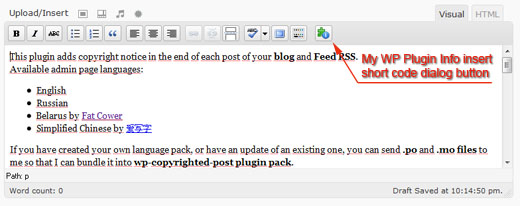
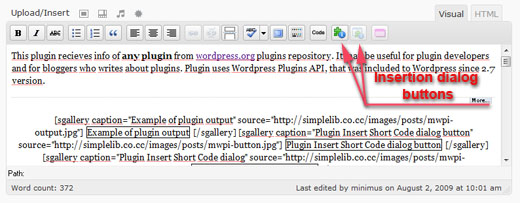
new features added
git-svn-id: https://plugins.svn.wordpress.org/my-wordpress-plugin-info/trunk@142486 b8457f37-d9ea-0310-8a92-e5e31aec5664

diff --git a/tinymce/plugins/mwpi/editor_plugin.js b/tinymce/plugins/mwpi/editor_plugin.js
@@ -8,8 +8,19 @@
 			ed.addCommand('mwpi', function() {
 				ed.windowManager.open({
 					file : url + '/dialog.php',
-					width : 310,
-					height : 130,
+					width : 310 + parseInt(ed.getLang('mwpi.delta_width', 0)),
+					height : 115 + parseInt(ed.getLang('mwpi.delta_height', 0)),
+					inline : 1
+				}, {
+					plugin_url : url 
+				});
+			});
+			
+			ed.addCommand('mwpi_block', function() {
+				ed.windowManager.open({
+					file : url + '/block-dialog.php',
+					width : 310 + parseInt(ed.getLang('mwpi.delta_width', 0)),
+					height : 90 + parseInt(ed.getLang('mwpi.delta_height', 0)),
 					inline : 1
 				}, {
 					plugin_url : url 
@@ -21,21 +32,26 @@
 				cmd : 'mwpi',
 				image : url + '/img/mwpi.png'
 			});
+			
+			ed.addButton('mwpi_block', {
+				title : 'mwpi.insert_mwpi_block',
+				cmd : 'mwpi_block',
+				image : url + '/img/mwpi-block.png'
+			});
 
-			ed.onNodeChange.add(function(ed, cm, n) {
-				cm.setActive('mwpi', n.nodeName == 'IMG');
+			ed.onNodeChange.add(function(ed, cm, n, co) {
+				cm.setDisabled('mwpi', !co);
+				cm.setDisabled('mwpi_block', co);
 			});
 		},
-		createControl : function(n, cm) {
-			return null;
-		},
+		
 		getInfo : function() {
 			return {
 					longname  : 'My WP Plugin Info',
 					author 	  : 'minimus',
 					authorurl : 'http://blogovod.co.cc',
 					infourl   : 'http://blogovod.co.cc',
-					version   : "0.3.6"
+					version   : "1.0.11"
 			};
 		}
 	});

diff --git a/tinymce/plugins/mwpi/mwpi-block-dialog.js b/tinymce/plugins/mwpi/mwpi-block-dialog.js
@@ -7,12 +7,12 @@ function insertMWPICode() {
 	var mwpiCode;
 	var mwpiSlugObj = document.getElementById('mwpi_slug');
 	var mwpiSlug = mwpiSlugObj.value;
-	var mwpiDataObj = document.getElementById('mwpi_data');
-	var mwpiData = mwpiDataObj.value;
 	var mwpiModeObj = document.getElementById('mwpi_mode');
 	var mwpiMode = mwpiModeObj.value;
+	var contentObj = tinyMCE.getInstanceById('content');
+	var mwpiBody = contentObj.selection.getContent();
 	
-	mwpiCode = ' [mwpi slug ="' + mwpiSlug + '" data="' + mwpiData + '" mode="' + mwpiMode + '"]';
+	mwpiCode = ' [mwpi_block slug ="' + mwpiSlug + '" mode="' + mwpiMode + '"]' + mwpiBody + '[/mwpi_block]]';
 	
 	window.tinyMCE.execInstanceCommand('content', 'mceInsertContent', false, mwpiCode);
 	tinyMCEPopup.editor.execCommand('mceRepaint');

diff --git a/tinymce/plugins/mwpi/langs/ru.js b/tinymce/plugins/mwpi/langs/ru.js
@@ -1,3 +1,4 @@
 tinyMCE.addI18n("ru.mwpi", {
-	insert_mwpi : 'Вставить информацию о плагине'
+	insert_mwpi : 'Вставить информацию о плагине',
+	insert_mwpi_block : 'Вставить блок информации о плагине'
 });

diff --git a/tinymce/plugins/mwpi/langs/en.js b/tinymce/plugins/mwpi/langs/en.js
@@ -1,3 +1,4 @@
 tinyMCE.addI18n("en.mwpi", {
-	insert_mwpi : 'Insert Plugin Info'
+	insert_mwpi : 'Insert Plugin Info',
+	insert_mwpi_block : 'Insert Block of Plugin Info'
 });

diff --git a/my-wordpress-plugin-info.php b/my-wordpress-plugin-info.php
@@ -3,7 +3,7 @@
 Plugin Name: My WP Plugin Info
 Plugin URI: http://simplelib.co.cc/?p=195
 Description: Recieves info of any plugin from wordpress.org plugins repository. Visit <a href="http://simplelib.co.cc/">SimpleLib blog</a> for more details.
-Version: 0.3.8
+Version: 1.0.11
 Author: minimus
 Author URI: http://blogovod.co.cc
 */
@@ -38,6 +38,7 @@ if ( !class_exists( 'MyWpPluginInfo' ) ) {
 			add_filter('tiny_mce_version', array(&$this, 'tinyMCEVersion') );
 			add_action('init', array(&$this, 'addButtons'));
 			add_shortcode('mwpi', array(&$this, 'doShortCode'));
+			add_shortcode('mwpi_block', array(&$this, 'doShortCodeBlock'));
 		}
 		
 		function getPluginInfo ( $slug = null ) {
@@ -181,6 +182,26 @@ if ( !class_exists( 'MyWpPluginInfo' ) ) {
 			return $content;
 		}
 		
+		function getPluginInfoBlock( $slug = null, $content = null, $mode = null ) {
+			if ( empty( $slug ) ) return false;
+			
+			$plugin = $this->getPluginInfo( $slug );
+			
+			if ( empty( $plugin ) ) return false;
+			
+			$prefix = "<strong><a href='http://wordpress.org/extend/plugins/{$slug}/'>{$plugin['name']}</a></strong> ";
+			switch ( $mode ) {
+				case 'info':
+				  $suffix = __('Author', 'my-wordpress-plugin-info').': '.$plugin['author'].', '.__('version', 'my-wordpress-plugin-info').': '.$plugin['version'].', '.__('updated', 'my-wordpress-plugin-info').': '.date(get_option('date_format'), strtotime($plugin['last_updated'])).', <br/>'.__('Requires WP version', 'my-wordpress-plugin-info').': '.$plugin['requires'].' '.__('or higher', 'my-wordpress-plugin-info').', '.__('tested up to', 'my-wordpress-plugin-info').': '.$plugin['tested'].'. <br/>'.$this->buildRatingRaw($plugin['rating']).' ('.sprintf( __ngettext( "%d vote", "%d votes", $plugin[ 'num_ratings' ], "my-wordpress-plugin-info" ), $plugin[ 'num_ratings' ] ).')';
+				  break;
+		    case 'download':
+		      $suffix = __('Author', 'my-wordpress-plugin-info').': '.$plugin['author'].', '.__('version', 'my-wordpress-plugin-info').': '.$plugin['version'].', '.__('updated', 'my-wordpress-plugin-info').': '.date(get_option('date_format'), strtotime($plugin['last_updated'])).', <br/>'.__('Requires WP version', 'my-wordpress-plugin-info').': '.$plugin['requires'].' '.__('or higher', 'my-wordpress-plugin-info').', '.__('tested up to', 'my-wordpress-plugin-info').': '.$plugin['tested'].'.<br/>'.'<a href="'.$plugin['download_link'].'">'.__('Download', 'my-wordpress-plugin-info').'</a> ('.sprintf( __ngettext( "%s hit", "%s hits", $plugin['downloaded'], "my-wordpress-plugin-info" ), number_format($plugin['downloaded'], 0, ',', ' ')).') '.$this->buildRatingRaw($plugin['rating']).' ('.sprintf( __ngettext( "%d vote", "%d votes", $plugin[ 'num_ratings' ], "my-wordpress-plugin-info" ), $plugin[ 'num_ratings' ] ).')';
+		      break;
+			}
+			$content = '<p>'.$prefix.'<br/>'.$content.'</p><p>'.$suffix.'</p>';
+			return $content;
+		}
+		
 		function doShortCode( $atts, $content = null ) {
 			extract( shortcode_atts( array(
 				'slug' => '',
@@ -206,6 +227,19 @@ if ( !class_exists( 'MyWpPluginInfo' ) ) {
 			
 		}
 		
+		function doShortCodeBlock( $atts, $content = null ) {
+			extract( shortcode_atts( array(
+				'slug' => '',
+				'mode' => 'info'), 
+				$atts ) );
+				
+			$plugin = array();
+			if ( $slug !== '' ) {
+				return $this->getPluginInfoBlock( $slug, do_shortcode( $content ), $mode );
+			}
+			else return __('Plugin Slug not Defined!', 'my-wordpress-plugin-info');
+		}
+		
 		function addButtons() {
 			// Don't bother doing this stuff if the current user lacks permissions
       if ( ! current_user_can('edit_posts') && ! current_user_can('edit_pages') )
@@ -219,11 +253,11 @@ if ( !class_exists( 'MyWpPluginInfo' ) ) {
 		}
 		
 		function registerButton( $buttons ) {
-			array_push($buttons, "separator", "mwpi");
+			array_push($buttons, "separator", "mwpi", "mwpi_block");
       return $buttons;
 		}
 		
-		function addTinyMCEPlugin() {
+		function addTinyMCEPlugin( $plugin_array ) {
 			$plugin_array['mwpi'] = plugins_url('my-wordpress-plugin-info/tinymce/plugins/mwpi/editor_plugin.js');
       return $plugin_array;
 		}

diff --git a/tinymce/plugins/mwpi/block-dialog.php b/tinymce/plugins/mwpi/block-dialog.php
@@ -1,0 +1,53 @@
+<?php
+
+/**
+ * @author minimus
+ * @copyright 2009
+ */
+
+$wpconfig = realpath("../../../../../../wp-config.php");
+if (!file_exists($wpconfig))  {
+	echo "Could not found wp-config.php. Error in path :\n\n".$wpconfig ;	
+	die;	
+}
+require_once($wpconfig);
+require_once(ABSPATH.'/wp-admin/admin.php');
+
+?>
+
+<html xmlns="http://www.w3.org/1999/xhtml">
+<head>
+	<title>My WP Plugin Info</title>
+<meta http-equiv="Content-Type" content="<?php bloginfo('html_type'); ?>; charset=<?php echo get_option('blog_charset'); ?>" />
+	<script language="javascript" type="text/javascript" src="<?php echo get_option('siteurl') ?>/wp-includes/js/tinymce/tiny_mce_popup.js"></script>
+	<script language="javascript" type="text/javascript" src="<?php echo get_option('siteurl') ?>/wp-includes/js/tinymce/utils/form_utils.js"></script>
+	<script language="javascript" type="text/javascript" src="<?php echo get_option('siteurl') ?>/wp-content/plugins/my-wordpress-plugin-info/tinymce/plugins/mwpi/mwpi-block-dialog.js"></script>
+	<base target="_self" />
+</head>
+
+<body id="link" onload="tinyMCEPopup.executeOnLoad('init();');document.body.style.display='';" style="display: none">
+  <form name="mwpi" action="#">
+    <table border="0" cellpadding="4" cellspacing="0">
+		  <tr>
+			  <td nowrap="nowrap"><label for="mwpi_slug"><?php _e('Slug', 'my-wordpress-plugin-info').':'; ?></label></td>
+			  <td><input id="mwpi_slug" name="mwpi_slug" style="width: 200px"/></td>
+		  </tr>
+		  <tr>
+			  <td nowrap="nowrap"><label for="mwpi_mode"><?php _e('Output Mode', 'my-wordpress-plugin-info').':'; ?></label></td>
+			  <td nowrap="nowrap">
+				  <select id="mwpi_mode" name="mwpi_mode" style="width: 200px">
+				    <option value="info"><?php _e('Info', 'my-wordpress-plugin-info'); ?></option>
+				    <option value="download"><?php _e('Download', 'my-wordpress-plugin-info'); ?></option>
+				  </select>
+				</td>
+		  </tr>
+		</table>
+		<div class="mceActionPanel">
+		  <div style="float: left">
+        <input type="button" id="cancel" name="cancel" value="<?php _e("Cancel", 'my-wordpress-plugin-info'); ?>" onclick="tinyMCEPopup.close();" />
+      </div>
+      <div style="float: right">
+        <input type="submit" id="insert" name="insert" value="<?php _e("Insert", 'my-wordpress-plugin-info'); ?>" onclick="insertMWPICode();" />
+      </div>
+    </div>
+  </form>

diff --git a/tinymce/plugins/mwpi/dialog.php b/tinymce/plugins/mwpi/dialog.php
@@ -30,7 +30,7 @@ require_once(ABSPATH.'/wp-admin/admin.php');
     <table border="0" cellpadding="4" cellspacing="0">
 		  <tr>
 			  <td nowrap="nowrap"><label for="mwpi_slug"><?php _e('Slug', 'my-wordpress-plugin-info').':'; ?></label></td>
-			  <td><textarea id="mwpi_slug" name="mwpi_slug" style="height: 22px; width: 200px"></textarea></td>
+			  <td><input id="mwpi_slug" name="mwpi_slug" style="width: 200px"/></td>
 		  </tr>
 		  <tr>
 			  <td nowrap="nowrap"><label for="mwpi_mode"><?php _e('Output Mode', 'my-wordpress-plugin-info').':'; ?></label></td>
@@ -38,7 +38,6 @@ require_once(ABSPATH.'/wp-admin/admin.php');
 				  <select id="mwpi_mode" name="mwpi_mode" style="width: 200px">
 				    <option value="api"><?php _e('API (As Is)', 'my-wordpress-plugin-info'); ?></option>
 				    <option value="fmt"><?php _e('Formated', 'my-wordpress-plugin-info'); ?></option>
-				    <option value="block"><?php _e('Info Block', 'my-wordpress-plugin-info'); ?></option>
 				  </select>
 				</td>
 		  </tr>
